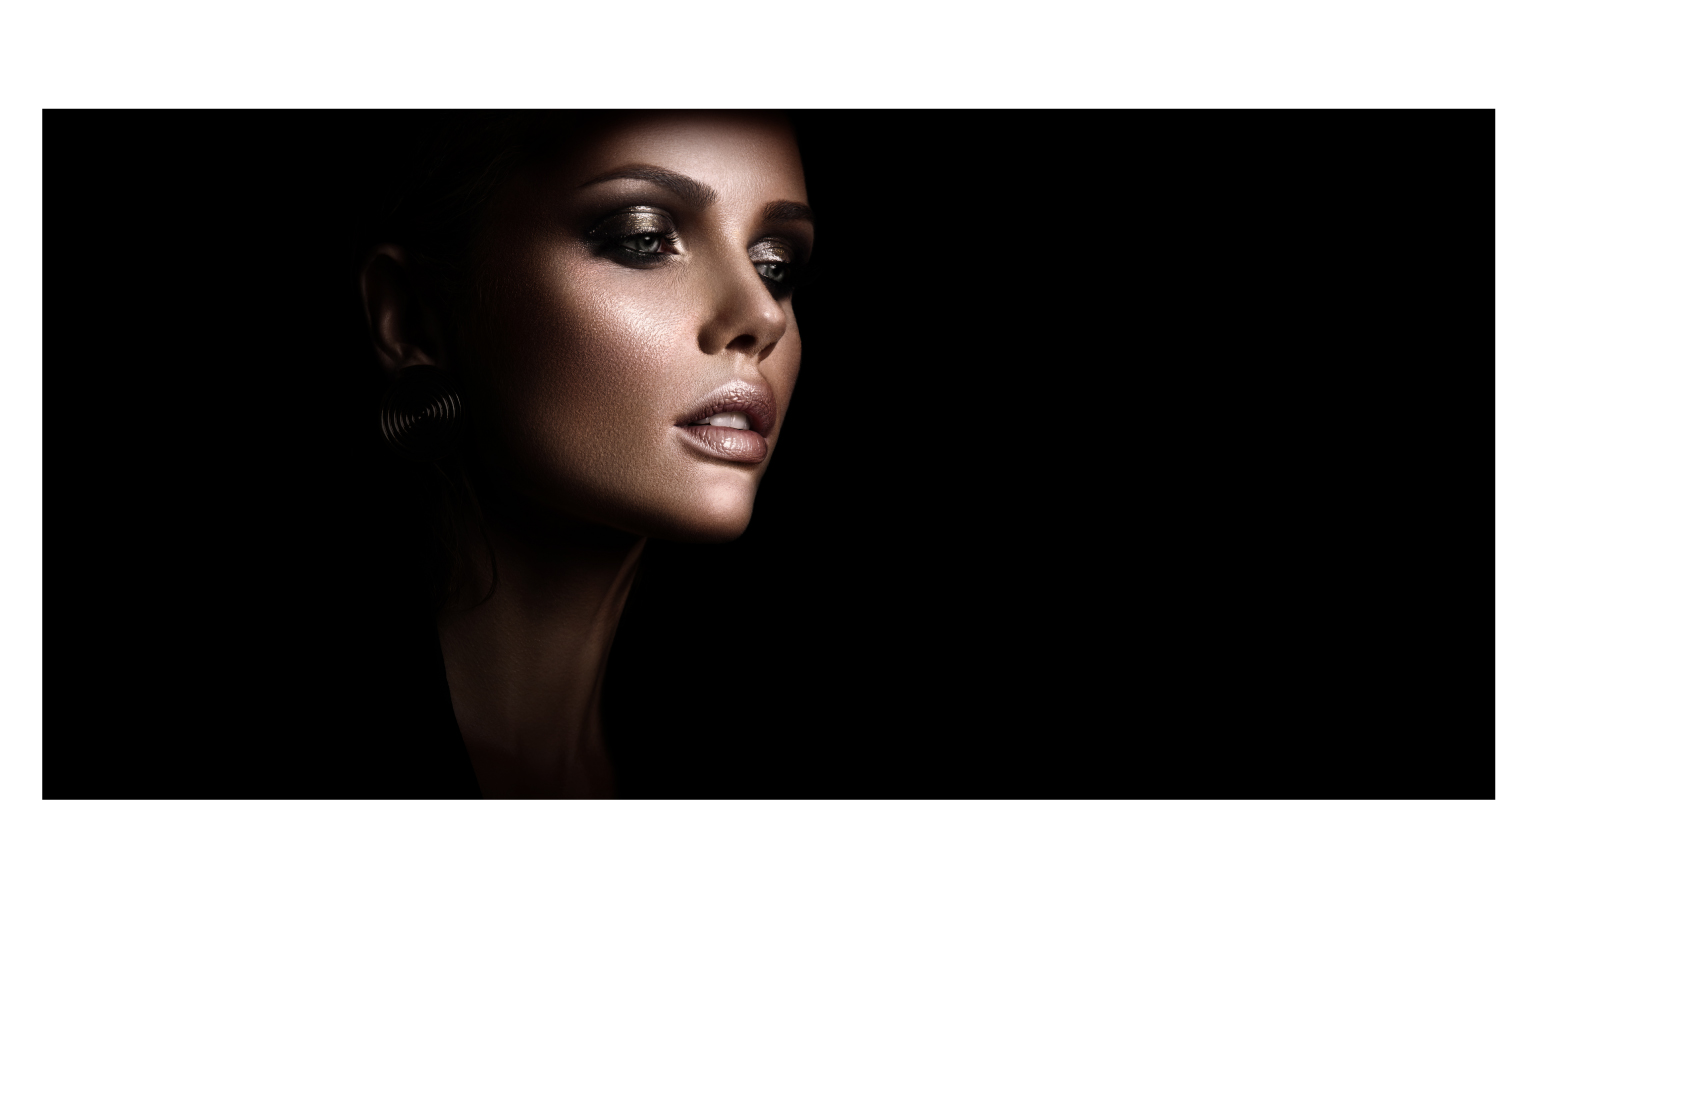
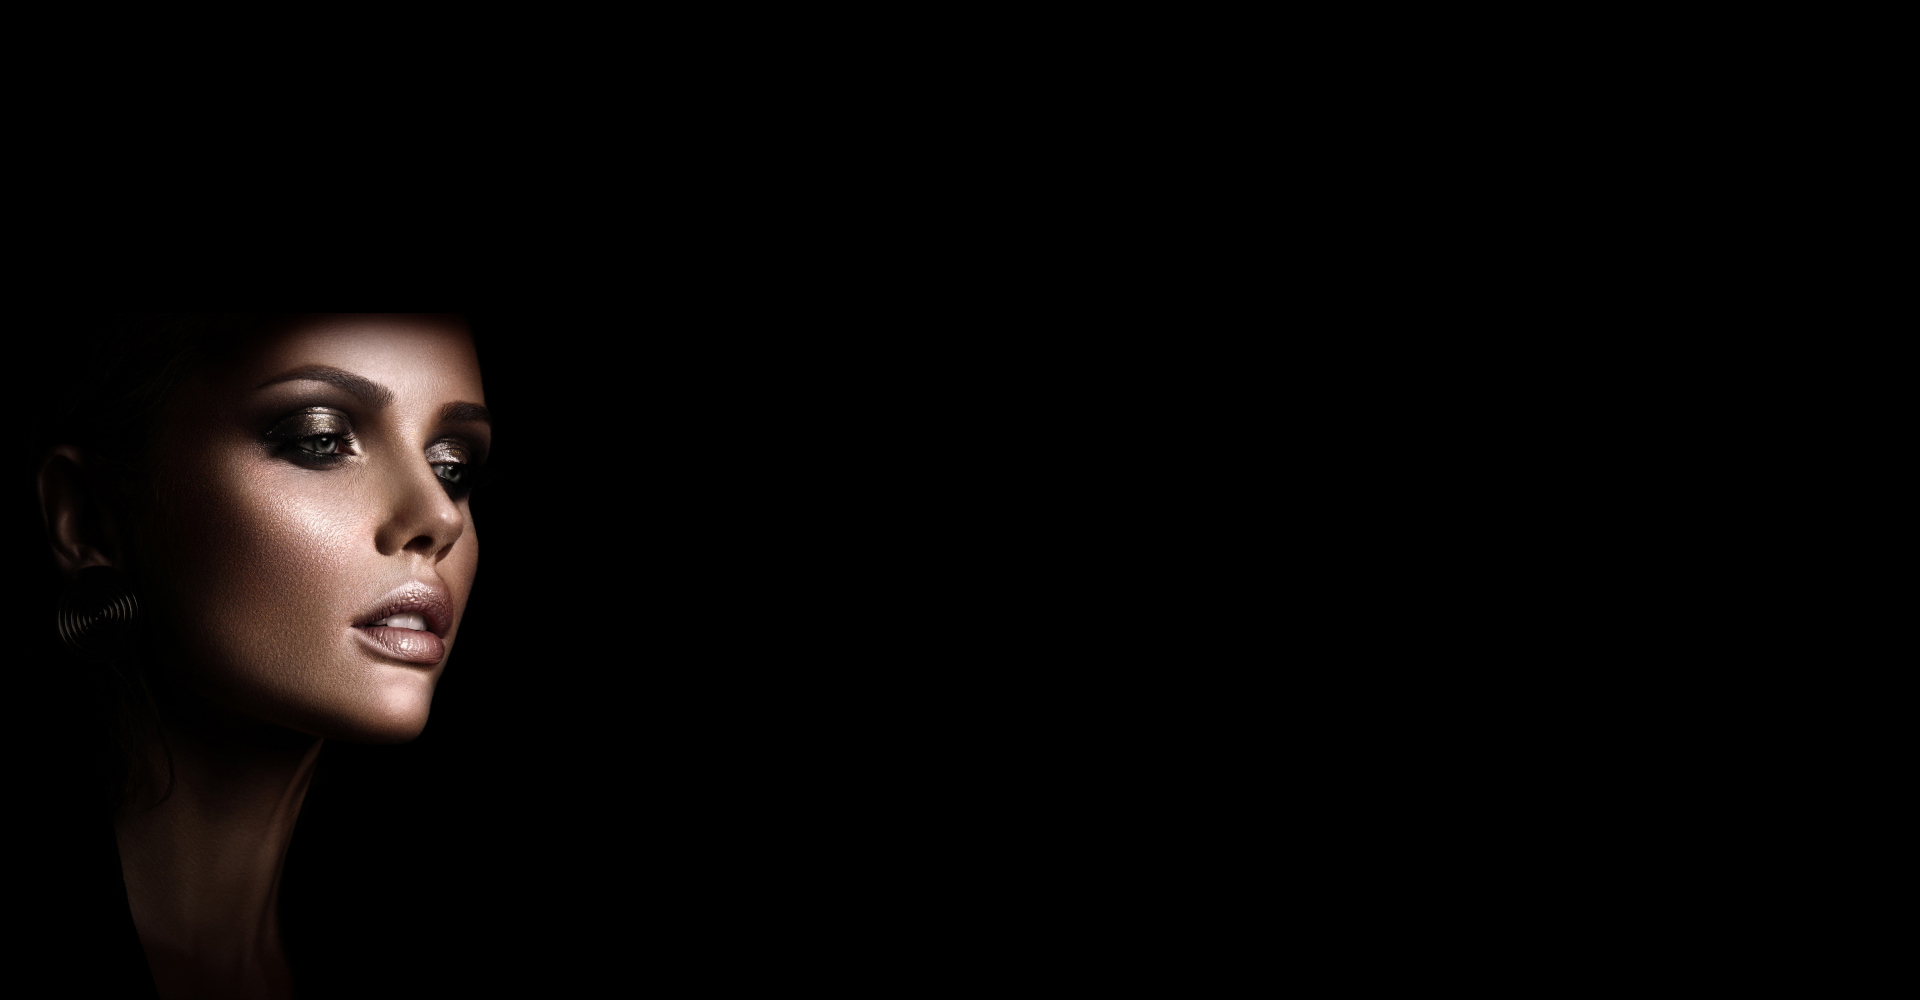
закончил главный экран

diff --git a/index.html b/index.html
@@ -1,5 +1,6 @@
 <!DOCTYPE html>
 <html lang="ru">
+
 <head>
     <meta charset="UTF-8">
     <meta name="viewport" content="width=device-width, initial-scale=1.0">
@@ -11,27 +12,67 @@
 </head>
 
 <body>
-    <header class="header">
-        <div class="container">
-            <div class="row">
-                <div class="col-10" style="border-left: solid rgb(255, 255, 255) 1px">
-                    <div class="header-logo"><img src="./img/main-logo.svg" alt="" class="header-logo__img"></div>
-                    <nav class="header-menu">
-                        <ul>
-                            <li><a href="" class="header-menu__link">О форуме</a></li>
-                            <li><a href="" class="header-menu__link">Программа</a></li>
-                            <li><a href="" class="header-menu__link">Спикеры</a></li>
-                            <li><a href="" class="header-menu__link">Спонсоры</a></li>
-                            <li><a href="" class="header-menu__link">Участники</a></li>
-                            <li><a href="" class="header-menu__link">Место проведения</a></li>
-                        </ul>
-
-                    </nav>
+    <div class="container">
+        <div class="main-wrap">
+            <header class="header">
+                <div class="row">
+                    <div class="col-8 bordered">
+                        <div class="header-logo"><img src="./img/main-logo.svg" alt="" class="header-logo__img"></div>
+                        <nav class="header-menu">
+                            <ul>
+                                <li><a href="" class="header-menu__link">О форуме</a></li>
+                                <li><a href="" class="header-menu__link">Программа</a></li>
+                                <li><a href="" class="header-menu__link">Спикеры</a></li>
+                                <li><a href="" class="header-menu__link">Спонсоры</a></li>
+                                <li><a href="" class="header-menu__link">Участники</a></li>
+                                <!--  -->
+                            </ul>
+                        </nav>
+                        <div class="header-descr"><span class="header-date">С 4–8 ноября 2019 года</span>Масштабная
+                            коллаборация профессионалов<br>
+                            индустрии красоты и салонного бизнеса</div>
+                    </div>
+                    <div class="col-4 bordered no-pad">
+                        <div class="header-contacts">
+                            <a href="" class="contacts-link">Контакты</a>
+                            <!-- <div class="header-tel"><a href="" class="header-tel__link">+7-999-999-99-99</a></div> -->
+                            <button class="header-btn">Связаться с нами</button>
+                        </div>
+                    </div>
                 </div>
-                <div class="col-2" style="border-left: solid rgb(255, 255, 255) 1px"></div>
-                
-            </div>
+            </header>
+            <section class="main">
+                <div class="row">
+                    <div class="col-4 bordered"></div>
+                    <div class="col-8 bordered no-pad">
+                        <div class="main-utp">
+                            Наша миссия — объединить на форуме всех
+                            участников индустрии красоты для разработки
+                            современных инструментов и техник развития
+                            сильного бизнеса и бренда!</div>
+                    </div>
+                </div>
+                <div class="row">
+                    <div class="col-4 bordered"></div>
+                    <div class="col-4 bordered">
+                        <div class="main-descr">Стань частью огромной команды
+                            индустрии красоты и получи
+                            максимум профессиональных знаний
+                            и новых полезных знакомств.</div>
+                    </div>
+                    <div class="col-4 bordered"></div>
+                </div>
+                <div class="row">
+                    <div class="col-4 bordered"></div>
+                    <div class="col-4 bordered no-pad">
+                        <button class="main-btn">Стать чатью команды</button>
+                        <a href="" class="main-btn__down"><img src="./img/down-btn.svg" alt="" class="down"></a>
+                    </div>
+                    <div class="col-4 bordered"></div>
+                </div>
+            </section>
         </div>
-    </header>
+    </div>
 </body>
+
 </html>

diff --git a/css/style.css b/css/style.css
@@ -1,13 +1,18 @@
+.header {
+  text-align: right;
+}
+
 .header-logo {
-  margin-top: 10px;
+  margin-top: 15px;
   display: inline-block;
+  width: 100px;
+  -webkit-transform: translateX(-175px);
+          transform: translateX(-175px);
 }
 
 .header-logo__img {
   width: 200px;
   position: relative;
-  -webkit-transform: translateX(-86px);
-          transform: translateX(-86px);
 }
 
 .header-menu {
@@ -27,10 +32,110 @@
   font-size: 16px;
 }
 
+.header-descr {
+  display: inline-block;
+  position: relative;
+  -webkit-transform: translateY(-80px);
+          transform: translateY(-80px);
+  color: #FF6F61;
+}
+
+.header-date {
+  text-transform: uppercase;
+  display: block;
+  font-size: 22px;
+  font-family: 'Playfair Display Bold';
+  font-weight: 600;
+  margin-bottom: 10px;
+}
+
+.header-tel {
+  margin-top: 10px;
+  display: inline;
+}
+
+.header-tel__link {
+  color: #FF6F61;
+  font-size: 20px;
+  text-decoration: none;
+}
+
+.header-btn {
+  background-color: #FF6F61;
+  border: none;
+  text-transform: uppercase;
+  font-size: 17px;
+  font-weight: 600;
+  font-family: 'Playfair Display Bold';
+  margin-top: 80px;
+  cursor: pointer;
+  outline: none;
+  padding: 5px;
+  display: block;
+}
+
+.header-contacts {
+  text-align: start;
+}
+
+.contacts-link {
+  display: inline-block;
+  text-transform: uppercase;
+  color: #ffffff;
+  margin-top: 16px;
+  text-decoration: none;
+  margin-left: 14px;
+}
+
+.main-utp {
+  font-size: 22px;
+  text-transform: uppercase;
+  background-color: #FF6F61;
+  color: #000;
+  font-family: 'Playfair Display Bold';
+  font-weight: 600;
+  padding: 10px;
+}
+
+.main-wrap {
+  background: url("../img/main-bg-100.jpg") center no-repeat;
+  background-size: cover;
+}
+
+.main-descr {
+  margin-top: 20px;
+}
+
+.main-btn {
+  text-transform: uppercase;
+  font-family: 'Playfair Display Bold';
+  font-weight: 600;
+  margin-top: 20px;
+  padding: 5px 10px 5px 10px;
+  border: none;
+  outline: none;
+  cursor: pointer;
+}
+
+.down {
+  height: 40px;
+  display: block;
+  margin: auto;
+  margin-top: 30px;
+}
+
 body {
   background-color: #000;
   font-family: 'Playfair Display', 'Open Sans';
   color: #fff;
   margin: 0;
+}
+
+.bordered {
+  border-left: solid #fff 1px;
+}
+
+.no-pad {
+  padding-left: 1.2px !important;
 }
 /*# sourceMappingURL=style.css.map */

diff --git a/css/style.min.css b/css/style.min.css
@@ -1,2 +1,2 @@
-.header-logo{margin-top:10px;display:inline-block}.header-logo__img{width:200px;position:relative;-webkit-transform:translateX(-86px);transform:translateX(-86px)}.header-menu{display:inline-block;vertical-align:top}.header-menu li{display:inline;margin-left:5px}.header-menu__link{color:#fff;text-transform:uppercase;text-decoration:none;font-size:16px}body{background-color:#000;font-family:'Playfair Display', 'Open Sans';color:#fff;margin:0}
+.header{text-align:right}.header-logo{margin-top:15px;display:inline-block;width:100px;-webkit-transform:translateX(-175px);transform:translateX(-175px)}.header-logo__img{width:200px;position:relative}.header-menu{display:inline-block;vertical-align:top}.header-menu li{display:inline;margin-left:5px}.header-menu__link{color:#fff;text-transform:uppercase;text-decoration:none;font-size:16px}.header-descr{display:inline-block;position:relative;-webkit-transform:translateY(-80px);transform:translateY(-80px);color:#FF6F61}.header-date{text-transform:uppercase;display:block;font-size:22px;font-family:'Playfair Display Bold';font-weight:600;margin-bottom:10px}.header-tel{margin-top:10px;display:inline}.header-tel__link{color:#FF6F61;font-size:20px;text-decoration:none}.header-btn{background-color:#FF6F61;border:none;text-transform:uppercase;font-size:17px;font-weight:600;font-family:'Playfair Display Bold';margin-top:80px;cursor:pointer;outline:none;padding:5px;display:block}.header-contacts{text-align:start}.contacts-link{display:inline-block;text-transform:uppercase;color:#ffffff;margin-top:16px;text-decoration:none;margin-left:14px}.main-utp{font-size:22px;text-transform:uppercase;background-color:#FF6F61;color:#000;font-family:'Playfair Display Bold';font-weight:600;padding:10px}.main-wrap{background:url("../img/main-bg-100.jpg") center no-repeat;background-size:cover}.main-descr{margin-top:20px}.main-btn{text-transform:uppercase;font-family:'Playfair Display Bold';font-weight:600;margin-top:20px;padding:5px 10px 5px 10px;border:none;outline:none;cursor:pointer}.down{height:40px;display:block;margin:auto;margin-top:30px}body{background-color:#000;font-family:'Playfair Display', 'Open Sans';color:#fff;margin:0}.bordered{border-left:solid #fff 1px}.no-pad{padding-left:1.2px !important}
 /*# sourceMappingURL=style.min.css.map */

diff --git a/sass/_header.sass b/sass/_header.sass
@@ -1,11 +1,13 @@
 .header
+    text-align: right
     &-logo
-        margin-top: 10px
+        margin-top: 15px
         display: inline-block
+        width: 100px
+        transform: translateX(-175px)
         &__img
             width: 200px
             position: relative
-            transform: translateX(-86px)
     &-menu
         display: inline-block
         vertical-align: top
@@ -17,4 +19,43 @@
             text-transform: uppercase
             text-decoration: none
             font-size: 16px
-            
+    &-descr
+        display: inline-block
+        position: relative
+        transform: translateY(-80px)
+        color: #FF6F61
+    &-date
+        text-transform: uppercase
+        display: block
+        font-size: 22px
+        font-family: 'Playfair Display Bold'
+        font-weight: 600
+        margin-bottom: 10px
+    &-tel
+        margin-top: 10px
+        display: inline
+        &__link
+            color: #FF6F61
+            font-size: 20px
+            text-decoration: none
+    &-btn
+        background-color: #FF6F61
+        border: none
+        text-transform: uppercase
+        font-size: 17px
+        font-weight: 600
+        font-family: 'Playfair Display Bold'
+        margin-top: 80px
+        cursor: pointer
+        outline: none
+        padding: 5px
+        display: block
+    &-contacts
+        text-align: start
+.contacts-link
+    display: inline-block
+    text-transform: uppercase
+    color: #ffffff
+    margin-top: 16px
+    text-decoration: none
+    margin-left: 14px

diff --git a/sass/_main.sass b/sass/_main.sass
@@ -1,0 +1,28 @@
+.main
+    &-utp
+        font-size: 22px
+        text-transform: uppercase
+        background-color: #FF6F61
+        color: #000
+        font-family: 'Playfair Display Bold'
+        font-weight: 600
+        padding: 10px
+    &-wrap
+        background: url('../img/main-bg-100.jpg') center no-repeat
+        background-size: cover
+    &-descr
+        margin-top: 20px
+    &-btn
+        text-transform: uppercase
+        font-family: 'Playfair Display Bold'
+        font-weight: 600
+        margin-top: 20px
+        padding: 5px 10px 5px 10px
+        border: none
+        outline: none
+        cursor: pointer
+.down
+    height: 40px
+    display: block
+    margin: auto
+    margin-top: 30px

diff --git a/sass/style.sass b/sass/style.sass
@@ -1,7 +1,12 @@
 @import "header"
+@import "main"
     
 body
     background-color: #000
     font-family: 'Playfair Display', 'Open Sans'
     color: #fff
     margin: 0
+.bordered
+    border-left: solid #fff 1px
+.no-pad
+    padding-left: 1.2px !important
